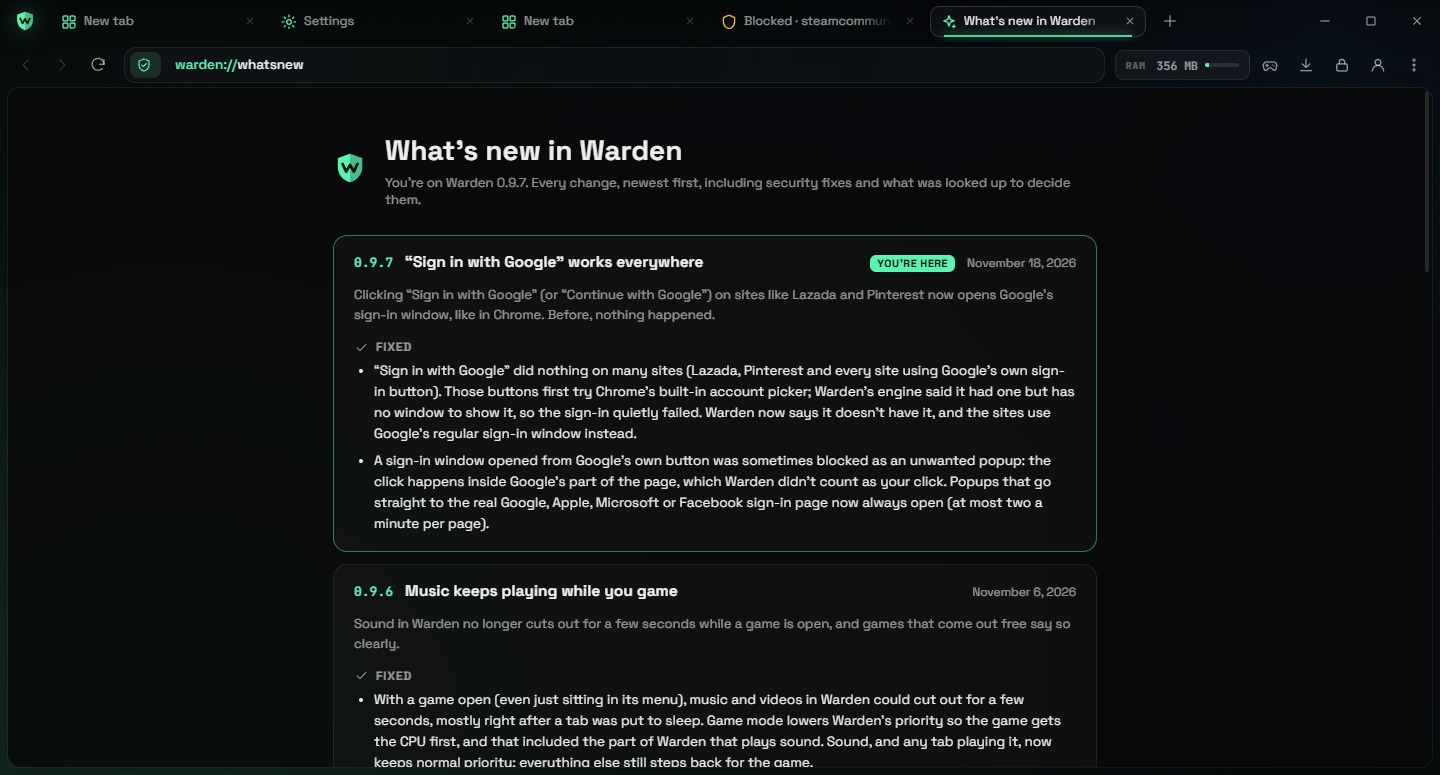
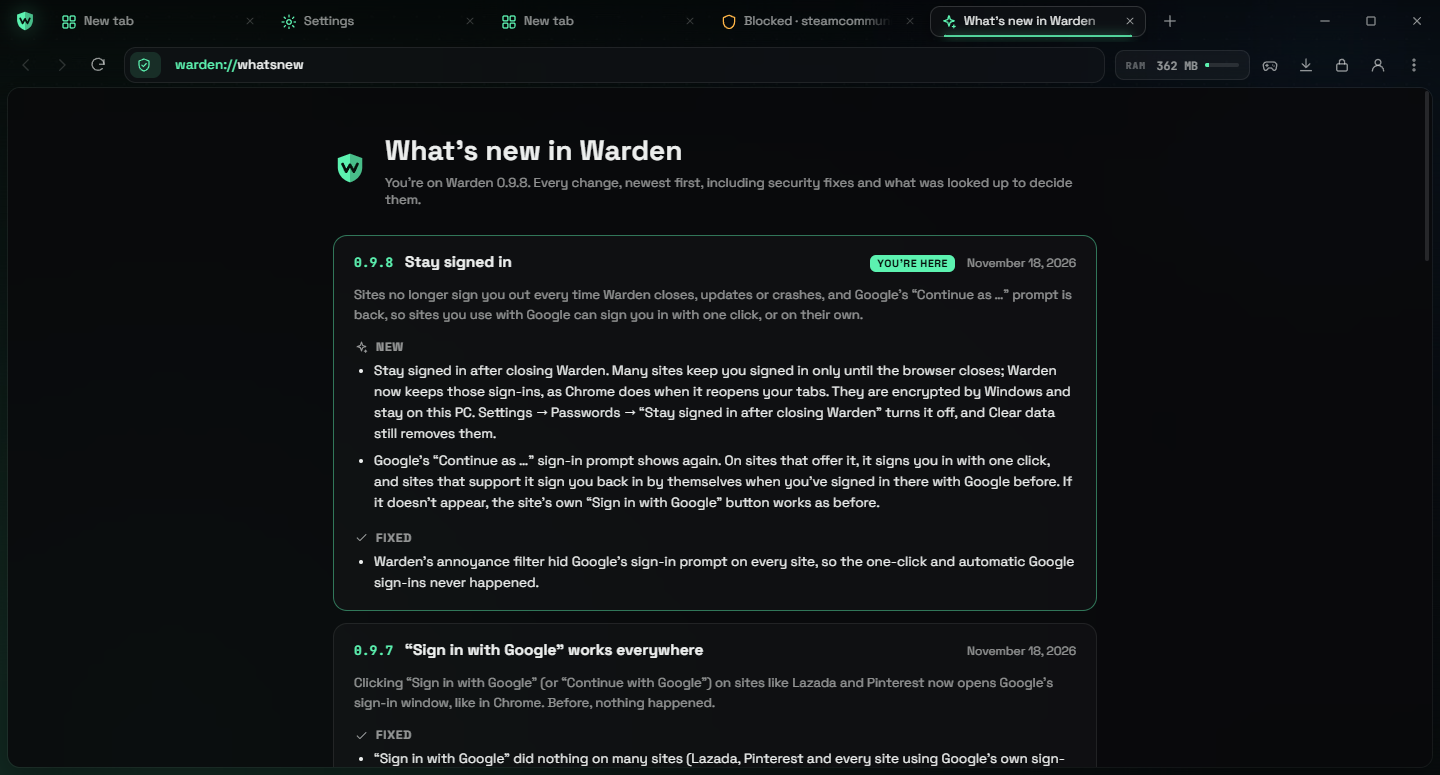
Update log for Warden 0.9.8

Changed region(s): [[0.25, 0.3097, 0.75, 0.991], [0.3438, 0.2168, 0.75, 0.2477]]

diff --git a/CHANGELOG.md b/CHANGELOG.md
@@ -4,6 +4,21 @@ Every Warden release, newest first: what’s new, what’s fixed, security fixes
 
 Installed copies update themselves. To install Warden for the first time, get the latest **Warden-Setup** from [Releases](../../releases/latest).
 
+## 0.9.8 · Stay signed in
+
+*18 November 2026*
+
+Sites no longer sign you out every time Warden closes, updates or crashes, and Google’s “Continue as …” prompt is back, so sites you use with Google can sign you in with one click, or on their own.
+
+### New
+
+- Stay signed in after closing Warden. Many sites keep you signed in only until the browser closes; Warden now keeps those sign-ins, as Chrome does when it reopens your tabs. They are encrypted by Windows and stay on this PC. Settings → Passwords → “Stay signed in after closing Warden” turns it off, and Clear data still removes them.
+- Google’s “Continue as …” sign-in prompt shows again. On sites that offer it, it signs you in with one click, and sites that support it sign you back in by themselves when you’ve signed in there with Google before. If it doesn’t appear, the site’s own “Sign in with Google” button works as before.
+
+### Fixed
+
+- Warden’s annoyance filter hid Google’s sign-in prompt on every site, so the one-click and automatic Google sign-ins never happened.
+
 ## 0.9.7 · “Sign in with Google” works everywhere
 
 *18 November 2026*
